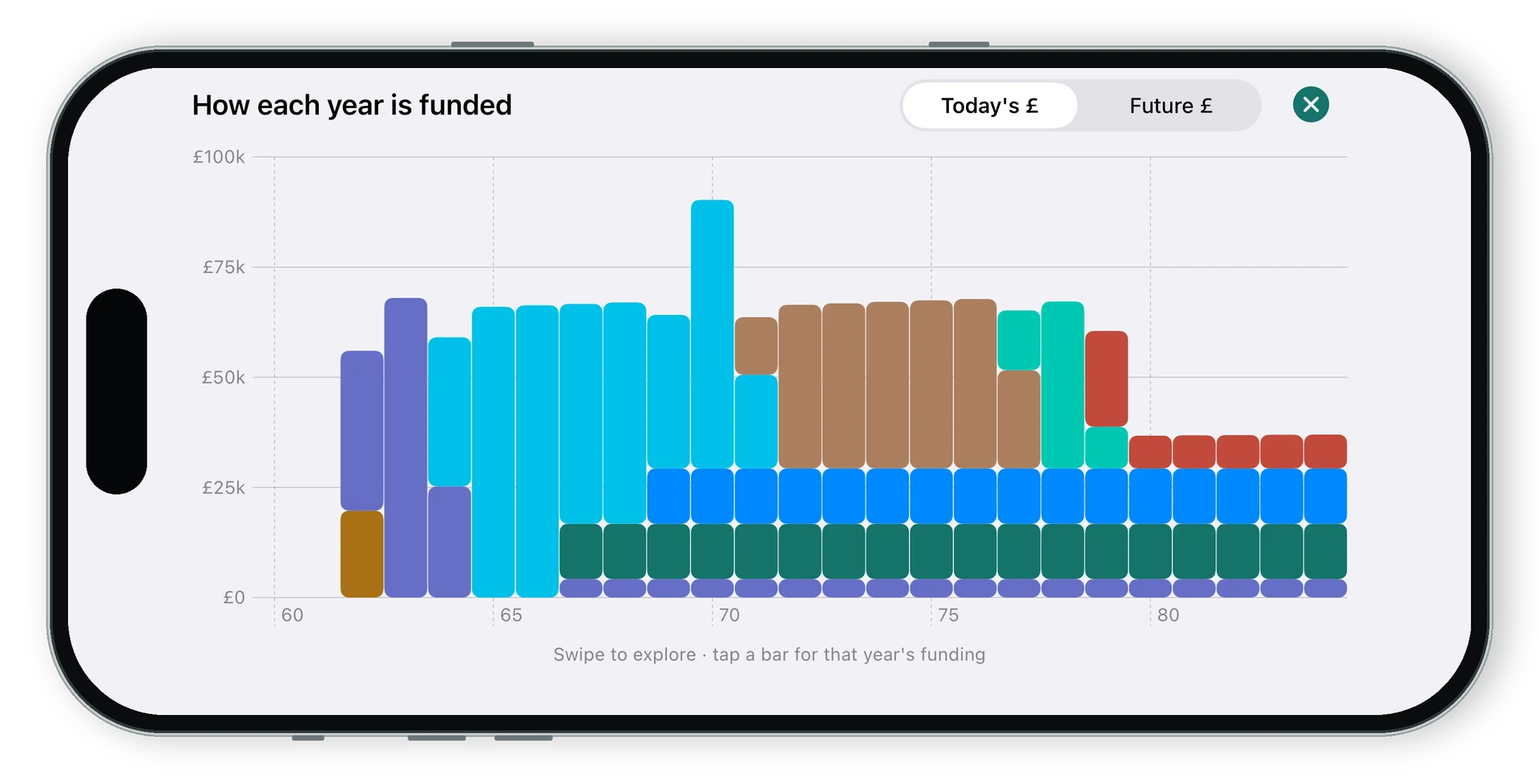
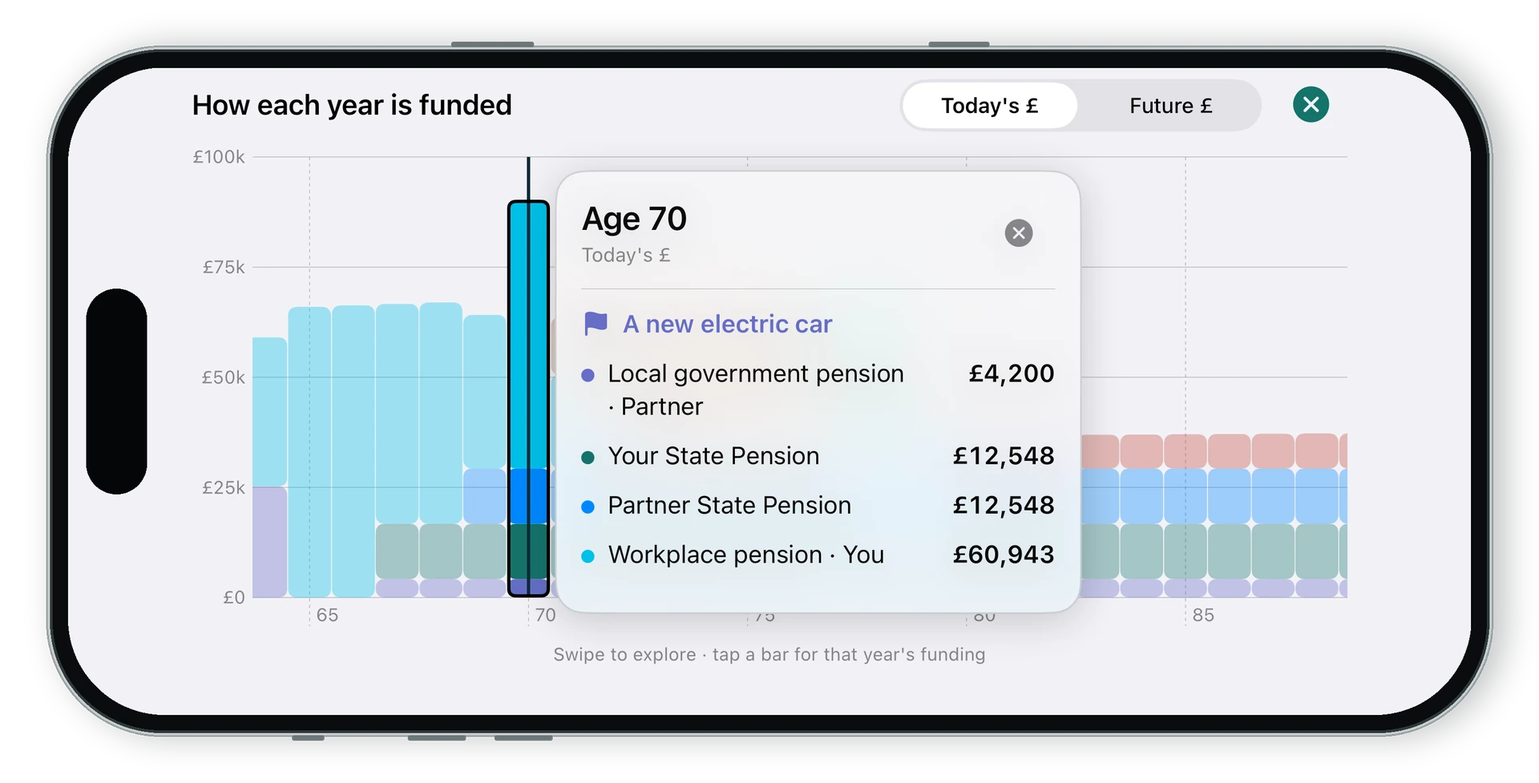
Add files via upload

Changed region(s): [[0.1562, 0.2456, 0.875, 0.7984], [0.6562, 0.2764, 0.6875, 0.3071]]

diff --git a/index.html b/index.html
@@ -1,7 +1,7 @@
 <!doctype html>
-<html lang="en-GB"><head><meta charset="utf-8"><meta name="viewport" content="width=device-width,initial-scale=1"><meta name="theme-color" content="#126f67"><meta name="description" content="See your pensions, savings and retirement spending together. A visual retirement planner for iPhone."><title>Horizon — your next chapter, in focus</title><link rel="icon" href="assets/app-icon.png" type="image/png"><link rel="stylesheet" href="styles.css"></head><body><a class="skip" href="#main">Skip to content</a><header class="site-header wrap"><a class="brand" href="index.html"><img src="assets/app-icon.png" width="42" height="42" alt=""><span>Horizon</span></a><nav aria-label="Main navigation"><a href="index.html#features">The app</a><a href="index.html#screenshots">Screenshots</a><a href="index.html#premium">Premium</a><a href="roadmap.html">Roadmap</a><a href="support.html">Support</a></nav></header>
-<main id="main"><section class="hero wrap"><div class="hero-copy"><p class="eyebrow">For iPhone · UK retirement planning</p><h1>Your next chapter.<br><span>In focus.</span></h1><p class="intro">Bring your pensions, savings and spending together. See what your retirement could look like — and explore the choices that shape it.</p><div class="actions"><a class="button" href="#features">Explore the app <span aria-hidden="true">↗</span></a><span class="coming">Coming to the App Store</span></div><ul class="hero-notes"><li>Solo or together</li><li>Your plan stays on your iPhone</li></ul></div><figure class="preview"><div class="halo" aria-hidden="true"></div><a class="device-photo-link" href="assets/screenshots/framed/overview-phone-960.webp" target="_blank" rel="noopener" aria-label="Open retirement overview showing a sample pot, funding gap, spending and timeline at full size"><picture class="device-photo"><img src="assets/screenshots/framed/overview-phone-960.webp" srcset="assets/screenshots/framed/overview-phone-480.webp 480w, assets/screenshots/framed/overview-phone-960.webp 960w" sizes="340px" width="960" height="1886" alt="Horizon Overview showing a sample pot, funding gap, spending and timeline" loading="eager" fetchpriority="high" decoding="async"></picture></a><figcaption>Actual app screen · fictional sample plan</figcaption></figure></section>
+<html lang="en-GB"><head><meta charset="utf-8"><meta name="viewport" content="width=device-width,initial-scale=1"><meta name="theme-color" content="#126f67"><meta name="description" content="See your pensions, savings and retirement spending together. A visual retirement planner for iPhone."><title>Horizon — your next chapter, in focus</title><link rel="icon" href="assets/app-icon.png" type="image/png"><link rel="stylesheet" href="styles.css?v=20261019b"></head><body><a class="skip" href="#main">Skip to content</a><header class="site-header wrap"><a class="brand" href="index.html"><img src="assets/app-icon.png" width="42" height="42" alt=""><span>Horizon</span></a><nav aria-label="Main navigation"><a href="index.html#features">The app</a><a href="index.html#screenshots">Screenshots</a><a href="index.html#premium">Premium</a><a href="roadmap.html">Roadmap</a><a href="support.html">Support</a></nav></header>
+<main id="main"><section class="hero wrap"><div class="hero-copy"><p class="eyebrow">For iPhone · UK retirement planning</p><h1>Your next chapter.<br><span>In focus.</span></h1><p class="intro">Bring your pensions, savings and spending together. See what your retirement could look like — and explore the choices that shape it.</p><div class="actions"><a class="button" href="#features">Explore the app <span aria-hidden="true">↗</span></a><span class="coming">Coming to the App Store</span></div><ul class="hero-notes"><li>Solo or together</li><li>Your plan stays on your iPhone</li></ul></div><figure class="preview"><div class="halo" aria-hidden="true"></div><a class="device-photo-link" href="assets/screenshots/framed/overview-phone-960.webp?v=20261019b" target="_blank" rel="noopener" aria-label="Open retirement overview showing a sample pot, funding gap, spending and timeline at full size"><picture class="device-photo"><img src="assets/screenshots/framed/overview-phone-960.webp?v=20261019b" srcset="assets/screenshots/framed/overview-phone-480.webp?v=20261019b 480w, assets/screenshots/framed/overview-phone-960.webp?v=20261019b 960w" sizes="340px" width="960" height="1886" alt="Horizon Overview showing a sample pot, funding gap, spending and timeline" loading="eager" fetchpriority="high" decoding="async"></picture></a><figcaption>Actual app screen · fictional sample plan</figcaption></figure></section>
 <section id="features" class="section wrap"><p class="eyebrow">Less guesswork. More clarity.</p><h2>A plan you can<br>actually picture.</h2><div class="feature-grid"><article class="feature"><span class="feature-number">01 / YOUR PLAN</span><h3>Everything, together.</h3><p>Bring together DC and DB pensions, State Pensions, ISAs and cash. Plan on your own or with a partner.</p><div class="account-art" aria-hidden="true"><span>Pensions <b>£397k</b></span><span>Savings <b>£95k</b></span><span class="art-total">Your next chapter <b>↗</b></span></div></article><article class="feature peach"><span class="feature-number">02 / YOUR LIFESTYLE</span><h3>Make room for living.</h3><p>Choose a spending style, make it your own and add the moments that matter. See annual and monthly costs.</p><div class="lifestyle-art" aria-hidden="true"><span>Basic</span><span class="selected">Comfortable <b>✓</b></span><span>Luxury</span></div></article><article class="feature blue"><span class="feature-number">03 / YOUR POSSIBILITIES</span><h3>Explore a different future.</h3><p>Scrub through your timeline, see how each year is funded and explore 100 generated market scenarios.</p><div class="scenario-art" aria-hidden="true"><span class="unfunded"></span><span></span><span></span><span></span><span></span><span></span><span></span><span class="unfunded"></span><span></span><span></span><span></span><span></span><span></span><span></span><span class="unfunded"></span><span></span><span></span><span></span><span></span><span></span><span></span><span class="unfunded"></span><span></span><span></span><span></span><span></span><span></span><span></span><span class="unfunded"></span><span></span><span></span><span></span><span></span><span></span><span class="unfunded"></span><span class="unfunded"></span><span class="unfunded"></span><span class="unfunded"></span><span class="unfunded"></span><span class="unfunded"></span></div></article></div></section>
-<section class="section wrap"><p class="eyebrow">A Home Screen widget</p><h2>Your retirement<br>countdown widget.</h2><p class="intro">Add the Horizon widget to your iPhone Home Screen, then choose Line, Dots or Calendar in Edit Widget.</p><div class="widget-styles" aria-label="Three Horizon retirement countdown widget styles"><figure class="widget-card"><a href="assets/screenshots/widgets/widget-line-960.webp" target="_blank" rel="noopener" aria-label="Open Line retirement countdown widget at full size"><picture><img src="assets/screenshots/widgets/widget-line-960.webp" srcset="assets/screenshots/widgets/widget-line-480.webp 480w, assets/screenshots/widgets/widget-line-960.webp 960w" sizes="(max-width: 650px) calc(100vw - 40px), (max-width: 1224px) calc((100vw - 108px) / 3), 372px" width="960" height="455" alt="Line retirement countdown widget showing 3,295 days to go" loading="lazy" decoding="async"></picture></a><figcaption><h3>Line</h3></figcaption></figure><figure class="widget-card"><a href="assets/screenshots/widgets/widget-dots-960.webp" target="_blank" rel="noopener" aria-label="Open Dots retirement countdown widget at full size"><picture><img src="assets/screenshots/widgets/widget-dots-960.webp" srcset="assets/screenshots/widgets/widget-dots-480.webp 480w, assets/screenshots/widgets/widget-dots-960.webp 960w" sizes="(max-width: 650px) calc(100vw - 40px), (max-width: 1224px) calc((100vw - 108px) / 3), 372px" width="960" height="455" alt="Dotted retirement countdown widget showing 3,295 days to go" loading="lazy" decoding="async"></picture></a><figcaption><h3>Dots</h3></figcaption></figure><figure class="widget-card"><a href="assets/screenshots/widgets/widget-calendar-960.webp" target="_blank" rel="noopener" aria-label="Open Calendar retirement countdown widget at full size"><picture><img src="assets/screenshots/widgets/widget-calendar-960.webp" srcset="assets/screenshots/widgets/widget-calendar-480.webp 480w, assets/screenshots/widgets/widget-calendar-960.webp 960w" sizes="(max-width: 650px) calc(100vw - 40px), (max-width: 1224px) calc((100vw - 108px) / 3), 372px" width="960" height="455" alt="Calendar retirement countdown widget showing 3,295 days to go" loading="lazy" decoding="async"></picture></a><figcaption><h3>Calendar</h3></figcaption></figure></div><p class="small">These medium widget examples show the retirement date and days to go. The supplied example is labelled estimated.</p></section>
-<section id="screenshots" class="section screenshot-section wrap"><p class="eyebrow">A closer look</p><h2>Your retirement.<br>Made visual.</h2><p class="gallery-hint">Swipe or scroll to explore. Select a screen to view it larger.</p><div class="screenshot-gallery" tabindex="0" role="region" aria-label="Horizon app screenshots"><figure class="screenshot-card"><a class="device-photo-link" href="assets/screenshots/framed/my-plan-phone-960.webp" target="_blank" rel="noopener" aria-label="Open my plan showing grouped pension and savings accounts with provider logos at full size"><picture class="device-photo"><img src="assets/screenshots/framed/my-plan-phone-960.webp" srcset="assets/screenshots/framed/my-plan-phone-480.webp 480w, assets/screenshots/framed/my-plan-phone-960.webp 960w" sizes="260px" width="960" height="1886" alt="My Plan showing grouped pension and savings accounts with provider logos" loading="lazy" decoding="async"></picture></a><figcaption><h3>Pensions & savings</h3><p>Actual app screen · sample plan</p></figcaption></figure><figure class="screenshot-card"><a class="device-photo-link" href="assets/screenshots/framed/spending-leisure-phone-960.webp" target="_blank" rel="noopener" aria-label="Open spending setup with basic, comfortable and luxury lifestyle choices at full size"><picture class="device-photo"><img src="assets/screenshots/framed/spending-leisure-phone-960.webp" srcset="assets/screenshots/framed/spending-leisure-phone-480.webp 480w, assets/screenshots/framed/spending-leisure-phone-960.webp 960w" sizes="260px" width="960" height="1886" alt="Spending setup with Basic, Comfortable and Luxury lifestyle choices" loading="lazy" decoding="async"></picture></a><figcaption><h3>Choose your spending</h3><p>Actual app screen · sample plan</p></figcaption></figure><figure class="screenshot-card"><a class="device-photo-link" href="assets/screenshots/framed/timeline-phone-960.webp" target="_blank" rel="noopener" aria-label="Open timeline showing pension income and retirement status at the selected age at full size"><picture class="device-photo"><img src="assets/screenshots/framed/timeline-phone-960.webp" srcset="assets/screenshots/framed/timeline-phone-480.webp 480w, assets/screenshots/framed/timeline-phone-960.webp 960w" sizes="260px" width="960" height="1886" alt="Timeline showing pension income and retirement status at the selected age" loading="lazy" decoding="async"></picture></a><figcaption><h3>Explore every year</h3><p>Actual app screen · sample plan</p></figcaption></figure><figure class="screenshot-card"><a class="device-photo-link" href="assets/screenshots/framed/scenario-grid-phone-960.webp" target="_blank" rel="noopener" aria-label="Open what if screen showing generated scenarios as green and red squares at full size"><picture class="device-photo"><img src="assets/screenshots/framed/scenario-grid-phone-960.webp" srcset="assets/screenshots/framed/scenario-grid-phone-480.webp 480w, assets/screenshots/framed/scenario-grid-phone-960.webp 960w" sizes="260px" width="960" height="1886" alt="What if screen showing generated scenarios as green and red squares" loading="lazy" decoding="async"></picture></a><figcaption><h3>100 possible futures</h3><p>Actual app screen · sample plan</p></figcaption></figure><figure class="screenshot-card"><a class="device-photo-link" href="assets/screenshots/framed/next-steps-phone-960.webp" target="_blank" rel="noopener" aria-label="Open next steps with calculated retirement, spending and savings options at full size"><picture class="device-photo"><img src="assets/screenshots/framed/next-steps-phone-960.webp" srcset="assets/screenshots/framed/next-steps-phone-480.webp 480w, assets/screenshots/framed/next-steps-phone-960.webp 960w" sizes="260px" width="960" height="1886" alt="Next Steps with calculated retirement, spending and savings options" loading="lazy" decoding="async"></picture></a><figcaption><h3>Ways to close the gap</h3><p>Actual app screen · sample plan</p></figcaption></figure><figure class="screenshot-card"><a class="device-photo-link" href="assets/screenshots/framed/life-events-phone-960.webp" target="_blank" rel="noopener" aria-label="Open my plan showing spending reductions and future life events at full size"><picture class="device-photo"><img src="assets/screenshots/framed/life-events-phone-960.webp" srcset="assets/screenshots/framed/life-events-phone-480.webp 480w, assets/screenshots/framed/life-events-phone-960.webp 960w" sizes="260px" width="960" height="1886" alt="My Plan showing spending reductions and future life events" loading="lazy" decoding="async"></picture></a><figcaption><h3>Make room for life</h3><p>Actual app screen · sample plan</p></figcaption></figure><figure class="screenshot-card"><a class="device-photo-link" href="assets/screenshots/framed/spending-summary-phone-960.webp" target="_blank" rel="noopener" aria-label="Open retirement spending chart with category totals and annual spending at full size"><picture class="device-photo"><img src="assets/screenshots/framed/spending-summary-phone-960.webp" srcset="assets/screenshots/framed/spending-summary-phone-480.webp 480w, assets/screenshots/framed/spending-summary-phone-960.webp 960w" sizes="260px" width="960" height="1886" alt="Horizon spending chart with category totals and annual spending" loading="lazy" decoding="async"></picture></a><figcaption><h3>Your spending, together</h3><p>Actual app screen · sample plan</p></figcaption></figure><figure class="screenshot-card"><a class="device-photo-link" href="assets/screenshots/framed/scenario-detail-phone-960.webp" target="_blank" rel="noopener" aria-label="Open scenario results showing the range of final pots and one selected outcome at full size"><picture class="device-photo"><img src="assets/screenshots/framed/scenario-detail-phone-960.webp" srcset="assets/screenshots/framed/scenario-detail-phone-480.webp 480w, assets/screenshots/framed/scenario-detail-phone-960.webp 960w" sizes="260px" width="960" height="1886" alt="Scenario results showing the range of final pots and one selected outcome" loading="lazy" decoding="async"></picture></a><figcaption><h3>Look a little closer</h3><p>Actual app screen · sample plan</p></figcaption></figure></div></section><section class="story funding-story wrap"><div class="story-copy"><div><p class="eyebrow">From the big picture to each year</p><h2>Know what pays.<br>And when.</h2></div><div><p>See when pensions start, how pots support your spending and where a funding gap could appear. Explore specific next steps, then take a visual PDF report with you.</p><p class="small">All projections use your saved assumptions. Generated scenarios illustrate different outcomes; they are not a probability forecast or a guarantee.</p></div></div><figure class="landscape-preview"><a class="device-photo-link" href="assets/screenshots/framed/funding-chart-phone-1920.webp" target="_blank" rel="noopener" aria-label="Open expanded retirement funding chart with each year funded by different pensions and savings at full size"><picture class="device-photo"><img src="assets/screenshots/framed/funding-chart-phone-1920.webp" srcset="assets/screenshots/framed/funding-chart-phone-960.webp 960w, assets/screenshots/framed/funding-chart-phone-1920.webp 1920w" sizes="(max-width: 650px) calc(100vw - 40px), (max-width: 1224px) calc(100vw - 64px), 1160px" width="1920" height="977" alt="Expanded retirement funding chart with each year funded by different pensions and savings" loading="lazy" decoding="async"></picture></a><figcaption>The expanded funding chart · actual app screen with a fictional plan</figcaption></figure></section>
+<section class="section wrap"><p class="eyebrow">A Home Screen widget</p><h2>Your retirement<br>countdown widget.</h2><p class="intro">Add the Horizon widget to your iPhone Home Screen, then choose Line, Dots or Calendar in Edit Widget.</p><div class="widget-styles" aria-label="Three Horizon retirement countdown widget styles"><figure class="widget-card"><a href="assets/screenshots/widgets/widget-line-960.webp" target="_blank" rel="noopener" aria-label="Open Line retirement countdown widget at full size"><picture><img src="assets/screenshots/widgets/widget-line-960.webp" srcset="assets/screenshots/widgets/widget-line-480.webp 480w, assets/screenshots/widgets/widget-line-960.webp 960w" sizes="(max-width: 650px) calc(100vw - 40px), (max-width: 828px) calc((100vw - 108px) / 3), 240px" width="960" height="455" alt="Line retirement countdown widget showing 3,295 days to go" loading="lazy" decoding="async"></picture></a></figure><figure class="widget-card"><a href="assets/screenshots/widgets/widget-dots-960.webp" target="_blank" rel="noopener" aria-label="Open Dots retirement countdown widget at full size"><picture><img src="assets/screenshots/widgets/widget-dots-960.webp" srcset="assets/screenshots/widgets/widget-dots-480.webp 480w, assets/screenshots/widgets/widget-dots-960.webp 960w" sizes="(max-width: 650px) calc(100vw - 40px), (max-width: 828px) calc((100vw - 108px) / 3), 240px" width="960" height="455" alt="Dotted retirement countdown widget showing 3,295 days to go" loading="lazy" decoding="async"></picture></a></figure><figure class="widget-card"><a href="assets/screenshots/widgets/widget-calendar-960.webp" target="_blank" rel="noopener" aria-label="Open Calendar retirement countdown widget at full size"><picture><img src="assets/screenshots/widgets/widget-calendar-960.webp" srcset="assets/screenshots/widgets/widget-calendar-480.webp 480w, assets/screenshots/widgets/widget-calendar-960.webp 960w" sizes="(max-width: 650px) calc(100vw - 40px), (max-width: 828px) calc((100vw - 108px) / 3), 240px" width="960" height="455" alt="Calendar retirement countdown widget showing 3,295 days to go" loading="lazy" decoding="async"></picture></a></figure></div><p class="small">These medium widget examples show the retirement date and days to go. The supplied example is labelled estimated.</p></section>
+<section id="screenshots" class="section screenshot-section wrap"><p class="eyebrow">A closer look</p><h2>Your retirement.<br>Made visual.</h2><p class="gallery-hint">Swipe or scroll to explore. Select a screen to view it larger.</p><div class="screenshot-gallery" tabindex="0" role="region" aria-label="Horizon app screenshots"><figure class="screenshot-card"><a class="device-photo-link" href="assets/screenshots/framed/my-plan-phone-960.webp" target="_blank" rel="noopener" aria-label="Open my plan showing grouped pension and savings accounts with provider logos at full size"><picture class="device-photo"><img src="assets/screenshots/framed/my-plan-phone-960.webp" srcset="assets/screenshots/framed/my-plan-phone-480.webp 480w, assets/screenshots/framed/my-plan-phone-960.webp 960w" sizes="260px" width="960" height="1886" alt="My Plan showing grouped pension and savings accounts with provider logos" loading="lazy" decoding="async"></picture></a><figcaption><h3>Pensions & savings</h3><p>Actual app screen · sample plan</p></figcaption></figure><figure class="screenshot-card"><a class="device-photo-link" href="assets/screenshots/framed/spending-leisure-phone-960.webp" target="_blank" rel="noopener" aria-label="Open spending setup with basic, comfortable and luxury lifestyle choices at full size"><picture class="device-photo"><img src="assets/screenshots/framed/spending-leisure-phone-960.webp" srcset="assets/screenshots/framed/spending-leisure-phone-480.webp 480w, assets/screenshots/framed/spending-leisure-phone-960.webp 960w" sizes="260px" width="960" height="1886" alt="Spending setup with Basic, Comfortable and Luxury lifestyle choices" loading="lazy" decoding="async"></picture></a><figcaption><h3>Choose your spending</h3><p>Actual app screen · sample plan</p></figcaption></figure><figure class="screenshot-card"><a class="device-photo-link" href="assets/screenshots/framed/timeline-phone-960.webp" target="_blank" rel="noopener" aria-label="Open timeline showing pension income and retirement status at the selected age at full size"><picture class="device-photo"><img src="assets/screenshots/framed/timeline-phone-960.webp" srcset="assets/screenshots/framed/timeline-phone-480.webp 480w, assets/screenshots/framed/timeline-phone-960.webp 960w" sizes="260px" width="960" height="1886" alt="Timeline showing pension income and retirement status at the selected age" loading="lazy" decoding="async"></picture></a><figcaption><h3>Explore every year</h3><p>Actual app screen · sample plan</p></figcaption></figure><figure class="screenshot-card"><a class="device-photo-link" href="assets/screenshots/framed/scenario-grid-phone-960.webp" target="_blank" rel="noopener" aria-label="Open what if screen showing generated scenarios as green and red squares at full size"><picture class="device-photo"><img src="assets/screenshots/framed/scenario-grid-phone-960.webp" srcset="assets/screenshots/framed/scenario-grid-phone-480.webp 480w, assets/screenshots/framed/scenario-grid-phone-960.webp 960w" sizes="260px" width="960" height="1886" alt="What if screen showing generated scenarios as green and red squares" loading="lazy" decoding="async"></picture></a><figcaption><h3>100 possible futures</h3><p>Actual app screen · sample plan</p></figcaption></figure><figure class="screenshot-card"><a class="device-photo-link" href="assets/screenshots/framed/next-steps-phone-960.webp" target="_blank" rel="noopener" aria-label="Open next steps with calculated retirement, spending and savings options at full size"><picture class="device-photo"><img src="assets/screenshots/framed/next-steps-phone-960.webp" srcset="assets/screenshots/framed/next-steps-phone-480.webp 480w, assets/screenshots/framed/next-steps-phone-960.webp 960w" sizes="260px" width="960" height="1886" alt="Next Steps with calculated retirement, spending and savings options" loading="lazy" decoding="async"></picture></a><figcaption><h3>Ways to close the gap</h3><p>Actual app screen · sample plan</p></figcaption></figure><figure class="screenshot-card"><a class="device-photo-link" href="assets/screenshots/framed/life-events-phone-960.webp" target="_blank" rel="noopener" aria-label="Open my plan showing spending reductions and future life events at full size"><picture class="device-photo"><img src="assets/screenshots/framed/life-events-phone-960.webp" srcset="assets/screenshots/framed/life-events-phone-480.webp 480w, assets/screenshots/framed/life-events-phone-960.webp 960w" sizes="260px" width="960" height="1886" alt="My Plan showing spending reductions and future life events" loading="lazy" decoding="async"></picture></a><figcaption><h3>Make room for life</h3><p>Actual app screen · sample plan</p></figcaption></figure><figure class="screenshot-card"><a class="device-photo-link" href="assets/screenshots/framed/spending-summary-phone-960.webp" target="_blank" rel="noopener" aria-label="Open retirement spending chart with category totals and annual spending at full size"><picture class="device-photo"><img src="assets/screenshots/framed/spending-summary-phone-960.webp" srcset="assets/screenshots/framed/spending-summary-phone-480.webp 480w, assets/screenshots/framed/spending-summary-phone-960.webp 960w" sizes="260px" width="960" height="1886" alt="Horizon spending chart with category totals and annual spending" loading="lazy" decoding="async"></picture></a><figcaption><h3>Your spending, together</h3><p>Actual app screen · sample plan</p></figcaption></figure><figure class="screenshot-card"><a class="device-photo-link" href="assets/screenshots/framed/scenario-detail-phone-960.webp" target="_blank" rel="noopener" aria-label="Open scenario results showing the range of final pots and one selected outcome at full size"><picture class="device-photo"><img src="assets/screenshots/framed/scenario-detail-phone-960.webp" srcset="assets/screenshots/framed/scenario-detail-phone-480.webp 480w, assets/screenshots/framed/scenario-detail-phone-960.webp 960w" sizes="260px" width="960" height="1886" alt="Scenario results showing the range of final pots and one selected outcome" loading="lazy" decoding="async"></picture></a><figcaption><h3>Look a little closer</h3><p>Actual app screen · sample plan</p></figcaption></figure></div></section><section class="story funding-story wrap"><div class="story-copy"><div><p class="eyebrow">From the big picture to each year</p><h2>Know what pays.<br>And when.</h2></div><div><p>See when pensions start, how pots support your spending and where a funding gap could appear. Explore specific next steps, then take a visual PDF report with you.</p><p class="small">All projections use your saved assumptions. Generated scenarios illustrate different outcomes; they are not a probability forecast or a guarantee.</p></div></div><figure class="landscape-preview"><a class="device-photo-link" href="assets/screenshots/framed/funding-chart-phone-1920.webp?v=20261019b" target="_blank" rel="noopener" aria-label="Open expanded retirement funding chart showing the selected year funding detail at full size"><picture class="device-photo"><img src="assets/screenshots/framed/funding-chart-phone-1920.webp?v=20261019b" srcset="assets/screenshots/framed/funding-chart-phone-960.webp?v=20261019b 960w, assets/screenshots/framed/funding-chart-phone-1920.webp?v=20261019b 1920w" sizes="(max-width: 650px) calc(100vw - 40px), (max-width: 1224px) calc(100vw - 64px), 1160px" width="1920" height="977" alt="Expanded retirement funding chart showing the selected year funding detail" loading="lazy" decoding="async"></picture></a><figcaption>The selected-year funding detail · actual app screen with a fictional plan</figcaption></figure></section>
 <section id="premium" class="premium wrap"><div><p class="eyebrow">Support an independent developer</p><h2>A little support.<br>A better future.</h2><p>Horizon Premium removes adverts and supports regular updates, thoughtful improvements and future development.</p><a class="button button-light" href="support.html#premium-help">About Premium <span aria-hidden="true">↗</span></a><p class="premium-roadmap"><a href="roadmap.html">See what&#39;s planned <span aria-hidden="true">↗</span></a></p></div><div class="price"><span>Planned UK annual price</span><strong>£7.99<small>/ year</small></strong><p>One annual subscription.<br>No banner adverts.</p><p class="small">Planned for the UK App Store. Apple displays the actual purchase price and renewal terms before purchase. Renews annually unless cancelled.</p></div></section><section class="contact-strip wrap"><div><h2>Built with your next chapter in mind.</h2><p>Questions, ideas or something that could work better?</p></div><a class="button button-outline" href="support.html">Get in touch <span aria-hidden="true">↗</span></a></section></main><footer class="site-footer wrap"><div><a class="brand" href="index.html">Horizon<span class="brand-dot" aria-hidden="true"></span></a><p>A clearer picture of your next chapter.</p></div><nav aria-label="Policies"><a href="privacy.html">Privacy</a><a href="terms.html">Terms</a><a href="roadmap.html">Roadmap</a><a href="support.html">Support</a></nav><p class="small">A planning illustration for UK pensions and savings. Future returns and tax rules can change. Not personal financial advice.</p></footer></body></html>

diff --git a/styles.css b/styles.css
@@ -69,12 +69,10 @@ figcaption { color:var(--muted); font-size:11px; text-align:center; margin-top:1
 .scenario-art { display:grid; grid-template-columns:repeat(8,1fr); gap:5px; margin-top:auto; padding-top:20px; }
 .scenario-art span { aspect-ratio:1; border-radius:4px; background:var(--teal); }
 .scenario-art span.unfunded { background:#b86b5f; }
-.widget-styles { display:grid; grid-template-columns:repeat(3,1fr); gap:22px; margin-top:34px; }
+.widget-styles { display:grid; grid-template-columns:repeat(3,1fr); gap:22px; width:min(764px,100%); margin-top:34px; }
 .widget-card { margin:0; }
 .widget-card a { display:block; border-radius:28px; text-decoration:none; }
 .widget-card img { display:block; width:100%; height:auto; }
-.widget-card figcaption { margin-top:14px; text-align:left; }
-.widget-card h3 { font-size:23px; margin:0; }
 .story { display:grid; grid-template-columns:1fr 1fr; gap:100px; padding-block:40px 110px; align-items:center; }
 .story p { color:var(--muted); max-width:470px; }
 .premium { border-radius:26px; background:linear-gradient(110deg,#163a40,#126f67); color:#effff4; padding:54px; display:grid; grid-template-columns:1.2fr 1fr; gap:90px; align-items:center; }

diff --git a/assets/screenshots/README.md b/assets/screenshots/README.md
@@ -9,7 +9,7 @@ These are real screenshots of the fictional populated plan supplied for the webs
 
 The current batch refreshes `my-plan`, `spending-leisure`, `timeline`, `overview`, `scenario-grid`, `life-events`, `spending-summary`, `scenario-detail` and `funding-chart`. `pot-and-spending`, `spending-transport`, `next-steps` and `scenario-summary` are retained from the prior batch because no counterpart was supplied. Web copies use quality-90 WebP, sRGB colour and no capture metadata. App information is not retouched or stretched; the illustrated display masks only the outer corners. A Dynamic Island is added when it is absent from the screenshot.
 
-The homepage uses `overview`; the gallery uses `my-plan`, `spending-leisure`, `timeline`, `scenario-grid`, `next-steps`, `life-events`, `spending-summary` and `scenario-detail`. The expanded `funding-chart` appears separately. The Home Screen widget section uses the real `widget-line`, `widget-dots` and `widget-calendar` crops. Each widget crop is a 1030×488px area from `IMG_3284.jpg`, with its coordinates and transparent 76px corner mask recorded in the manifest. `IMG_3283.png` is an alternate funding-chart detail state with no separate website position, and is recorded in the manifest rather than displayed.
+The homepage uses `overview`; the gallery uses `my-plan`, `spending-leisure`, `timeline`, `scenario-grid`, `next-steps`, `life-events`, `spending-summary` and `scenario-detail`. The expanded `funding-chart` uses the selected-year funding detail in `IMG_3283.png`; `IMG_3282.PNG` is the alternate unselected state and is recorded in the manifest rather than displayed. The Home Screen widget section uses the real `widget-line`, `widget-dots` and `widget-calendar` crops. Each widget crop is a 1030×488px area from `IMG_3284.jpg`, with its coordinates and transparent 76px corner mask recorded in the manifest.
 
 These are custom device illustrations, not Apple-supplied marketing frames. Device reference: [iPhone 17 specifications](https://www.apple.com/uk/iphone-17/specs/).
 
